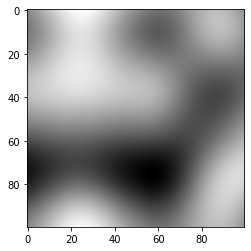
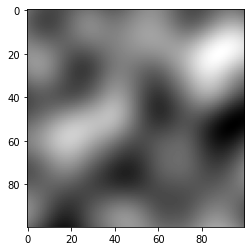
get reed of dimensionality and now everything should work better and faster

diff --git a/perlin_noise/perlin_noise.py b/perlin_noise/perlin_noise.py
@@ -6,21 +6,15 @@ class PerlinNoise:
     Smooth random noise generator
     read more https://en.wikipedia.org/wiki/Perlin_noise
     """
-    def __init__(self, n_dims=1, octaves=1, seed=None):
+    def __init__(self, octaves=1, seed=None):
         """
             Perlin Noise object initialisation class
             ex.: noise = PerlinNoise(n_dims=2, octaves=3.5, seed=777)
-            n_dims : positive int, optional, default = 1
-                space dimension
             octaves : positive float, obtional, default = 1
                 positive number of sub rectangles in each [0, 1] range
             seed : positive int, optional, default = None
                 specific seed with which you want to initialize random generator
         """
-        try:
-            assert type(n_dims) == int and n_dims > 0
-        except AssertionError:
-            raise ValueError(f'n_dims expected to be positive integer number, but you passed: {n_dims}')
 
         try:
             assert octaves > 0
@@ -33,7 +27,6 @@ class PerlinNoise:
         except AssertionError:
             raise ValueError(f'seed expected to be positive integer number, but you passed: {seed}')
 
-        self.n_dims = n_dims
         self.octaves = octaves
         if seed:
             self.seed = seed
@@ -45,7 +38,7 @@ class PerlinNoise:
         hashes coordinates to integer number to avoid repeats in seed
         coors - array of coordinates
         """
-        return max(1, abs(RandVec._dot([10^p for p in range(len(coors))], coors)+1))
+        return max(1, abs(RandVec._dot([10**p for p in range(len(coors))], coors)+1))
 
     @staticmethod
     def _is_iterable(obj):
@@ -62,26 +55,12 @@ class PerlinNoise:
         internal function that checks if given coordinates are valid
         """
         if type(coordinates) == int or type(coordinates) == float:
-            if self.n_dims == 1:
-                return
-            else:
-                raise TypeError('if n_dims > 1 coordinates must be iterable of coordinates')
+            return
         else:
-            if self._is_iterable(coordinates):
-                if len(list(coordinates)) == self.n_dims:
-                    return
-                else:
-                    raise TypeError(f'''
-                                    coordinates must be iterable (np.array, list, map ..)
-                                    with len(coordinates) = n_dims,
-                                    but you passed coordinates with length {len(coordinates)}
-                                    and n_dims = {self.n_dims}''')
-            else:
+            if not self._is_iterable(coordinates):
                 raise TypeError(f'''
                                 coordinates must be iterable (np.array, list, map ..)
-                                with len(coordinates) = n_dims,
                                 but you passed not iterable coordinates of type {type(coordinates)}''')
-
 
     @staticmethod
     def _each_with_each(arrs, prev=(), results=[]):
@@ -100,7 +79,7 @@ class PerlinNoise:
     def noise(self, coordinates):
         """
         basic function that returns noise value for given coordinates
-        coordinates - integer if n_dims==1 or list of coordinates with length = n_dims
+        coordinates - integer or list of coordinates
         """
         self._is_valid_coordinates(coordinates)
 
@@ -109,10 +88,10 @@ class PerlinNoise:
 
         coordinates = list(map(lambda x: x*self.octaves, coordinates))
         try:
-            coor_bounding_box = [[math.floor(c), math.floor(c+1)] for c in coordinates]
+            coor_bounding_box = [(math.floor(c), math.floor(c+1)) for c in coordinates]
         except TypeError:
             raise TypeError(f'''could execute math.floor to passed coordinated,
-                                expected int or float, reveived {coordinates[0]}''')
+                                expected int or float, reveived {type(coordinates[0])}''')
 
         val = 0
         for coors in self._each_with_each(coor_bounding_box):

diff --git a/tests/functionality_tests.py b/tests/functionality_tests.py
@@ -4,7 +4,7 @@ import random
 
 def test_if_perlin_noise_works_in_1D():
     ''' checks if values in -1 1 range and changes slowly '''
-    p_noise = PerlinNoise(n_dims=1, octaves=1)
+    p_noise = PerlinNoise()
     lim = 2000
     prev = 0
     for i in range(lim):
@@ -14,7 +14,7 @@ def test_if_perlin_noise_works_in_1D():
         prev = noise
 
 def test_if_perlin_noise_works_in_2D():
-    noise = PerlinNoise(n_dims=2, octaves=3)
+    noise = PerlinNoise()
     lim = 100
     for i in range(lim):
         for j in range(lim):
@@ -22,8 +22,9 @@ def test_if_perlin_noise_works_in_2D():
 
 
 def test_if_perlin_noise_works_in_high_dimensions():
+    ''' checks if values in -1 1 in high dimensions '''
     n_dims = 10
-    noise = PerlinNoise(n_dims=n_dims, octaves=3)
+    noise = PerlinNoise(octaves=3)
     vec = []
     n_passes = 100
     for check in range(n_passes):
@@ -31,3 +32,13 @@ def test_if_perlin_noise_works_in_high_dimensions():
         for dim in range(n_dims):
             vec.append(random.uniform(-10, 10))
         assert -1 < noise(vec) < 1
+
+
+def test_if_noise_value_doesnt_depend_on_space_size():
+    ''' test that noise value independent from test size '''
+
+    noise1 = PerlinNoise(octaves=4.6, seed=777)
+    noise2 = PerlinNoise(octaves=4.6, seed=777)
+    assert noise1([0.5, 0.5])==noise2([0.5, 0.5, 0, 0, 0])
+    assert noise1([0.5, 0])==noise2([0.5, 0, 0, 0, 0])
+    assert noise1(0.5) == noise1([0.5, 0])

diff --git a/perlin_noise/RandVec.py b/perlin_noise/RandVec.py
@@ -10,7 +10,7 @@ class RandVec:
         self.vec = self.sample_vector(dimensions=len(self.coordinates), seed=seed)
 
     def dists_to(self, coordinates):
-        dists = list(map(lambda x: x[0]-x[1], zip(coordinates, self.coordinates)))
+        dists = [x[0]-x[1] for x in zip(coordinates, self.coordinates)]
         return dists
 
     def multiply_arr(self, arr):

diff --git a/Readme.md b/Readme.md
@@ -2,20 +2,27 @@ Smooth random noise generator
 read more https://en.wikipedia.org/wiki/Perlin_noise  
 
 
-noise = PerlinNoise(n_dims=2, octaves=3.5, seed=777)  
-&nbsp;&nbsp;&nbsp;&nbsp;n_dims : positive int, optional, default = 1  
-     &nbsp;&nbsp;&nbsp;&nbsp;&nbsp;&nbsp;&nbsp;&nbsp;space dimension  
- &nbsp;&nbsp;&nbsp;&nbsp;octaves : positive float, optional, default = 1  
-     &nbsp;&nbsp;&nbsp;&nbsp;&nbsp;&nbsp;&nbsp;&nbsp;positive number of sub rectangles in each [0, 1] range  
- &nbsp;&nbsp;&nbsp;&nbsp;seed : positive int, optional, default = None  
-     &nbsp;&nbsp;&nbsp;&nbsp;&nbsp;&nbsp;&nbsp;&nbsp;specific seed with which you want to initialize random generator  
+noise = PerlinNoise(octaves=3.5, seed=777)  
+ &nbsp;&nbsp;&nbsp;&nbsp;octaves : number of sub rectangles in each [0, 1] range
+ &nbsp;&nbsp;&nbsp;&nbsp;seed : specific seed with which you want to initialize random generator  
 
-Usage examples:
+
+```python
+noise = PerlinNoise()
+# accepts as argument intenger and list
+noise(0.5) == noise([0.5])
+--> True
+# noise not limited in space dimension and seamless in any space size
+noise([0.5, 0.5]) == noise([0.5, 0.5, 0, 0, 0])
+--> True
+```
+
+Visualization examples:
 ```python
 import matplotlib.pyplot as plt
 from perlin_noise import PerlinNoise
 
-noise = PerlinNoise(n_dims=2, octaves=2)
+noise = PerlinNoise(octaves=3)
 xpix = 100
 ypix = 100
 pic = []
@@ -34,10 +41,10 @@ plt.show()
 import matplotlib.pyplot as plt
 from perlin_noise import PerlinNoise
 
-noise1 = PerlinNoise(n_dims=2, octaves=0.5)
-noise2 = PerlinNoise(n_dims=2, octaves=1)
-noise3 = PerlinNoise(n_dims=2, octaves=2)
-noise4 = PerlinNoise(n_dims=2, octaves=4)
+noise1 = PerlinNoise(octaves=3)
+noise2 = PerlinNoise(octaves=6)
+noise3 = PerlinNoise(octaves=12)
+noise4 = PerlinNoise(octaves=24)
 
 xpix = 100
 ypix = 100

diff --git a/Readme_pypi.md b/Readme_pypi.md
@@ -2,20 +2,27 @@ Smooth random noise generator
 read more https://en.wikipedia.org/wiki/Perlin_noise  
 
 
-noise = PerlinNoise(n_dims=2, octaves=3.5, seed=777)  
-&nbsp;&nbsp;&nbsp;&nbsp;n_dims : positive int, optional, default = 1  
-     &nbsp;&nbsp;&nbsp;&nbsp;&nbsp;&nbsp;&nbsp;&nbsp;space dimension  
- &nbsp;&nbsp;&nbsp;&nbsp;octaves : positive float, optional, default = 1  
-     &nbsp;&nbsp;&nbsp;&nbsp;&nbsp;&nbsp;&nbsp;&nbsp;positive number of sub rectangles in each [0, 1] range  
- &nbsp;&nbsp;&nbsp;&nbsp;seed : positive int, optional, default = None  
-     &nbsp;&nbsp;&nbsp;&nbsp;&nbsp;&nbsp;&nbsp;&nbsp;specific seed with which you want to initialize random generator  
+noise = PerlinNoise(octaves=3.5, seed=777)  
+ &nbsp;&nbsp;&nbsp;&nbsp;octaves : number of sub rectangles in each [0, 1] range
+ &nbsp;&nbsp;&nbsp;&nbsp;seed : specific seed with which you want to initialize random generator  
 
-Usage examples:
+
+```python
+noise = PerlinNoise()
+# accepts as argument intenger and list
+noise(0.5) == noise([0.5])
+--> True
+# noise not limited in space dimension and seamless in any space size
+noise([0.5, 0.5]) == noise([0.5, 0.5, 0, 0, 0])
+--> True
+```
+
+Visualization examples:
 ```python
 import matplotlib.pyplot as plt
 from perlin_noise import PerlinNoise
 
-noise = PerlinNoise(n_dims=2, octaves=2)
+noise = PerlinNoise(octaves=3)
 xpix = 100
 ypix = 100
 pic = []
@@ -34,10 +41,10 @@ plt.show()
 import matplotlib.pyplot as plt
 from perlin_noise import PerlinNoise
 
-noise1 = PerlinNoise(n_dims=2, octaves=0.5)
-noise2 = PerlinNoise(n_dims=2, octaves=1)
-noise3 = PerlinNoise(n_dims=2, octaves=2)
-noise4 = PerlinNoise(n_dims=2, octaves=4)
+noise1 = PerlinNoise(octaves=3)
+noise2 = PerlinNoise(octaves=6)
+noise3 = PerlinNoise(octaves=12)
+noise4 = PerlinNoise(octaves=24)
 
 xpix = 100
 ypix = 100
